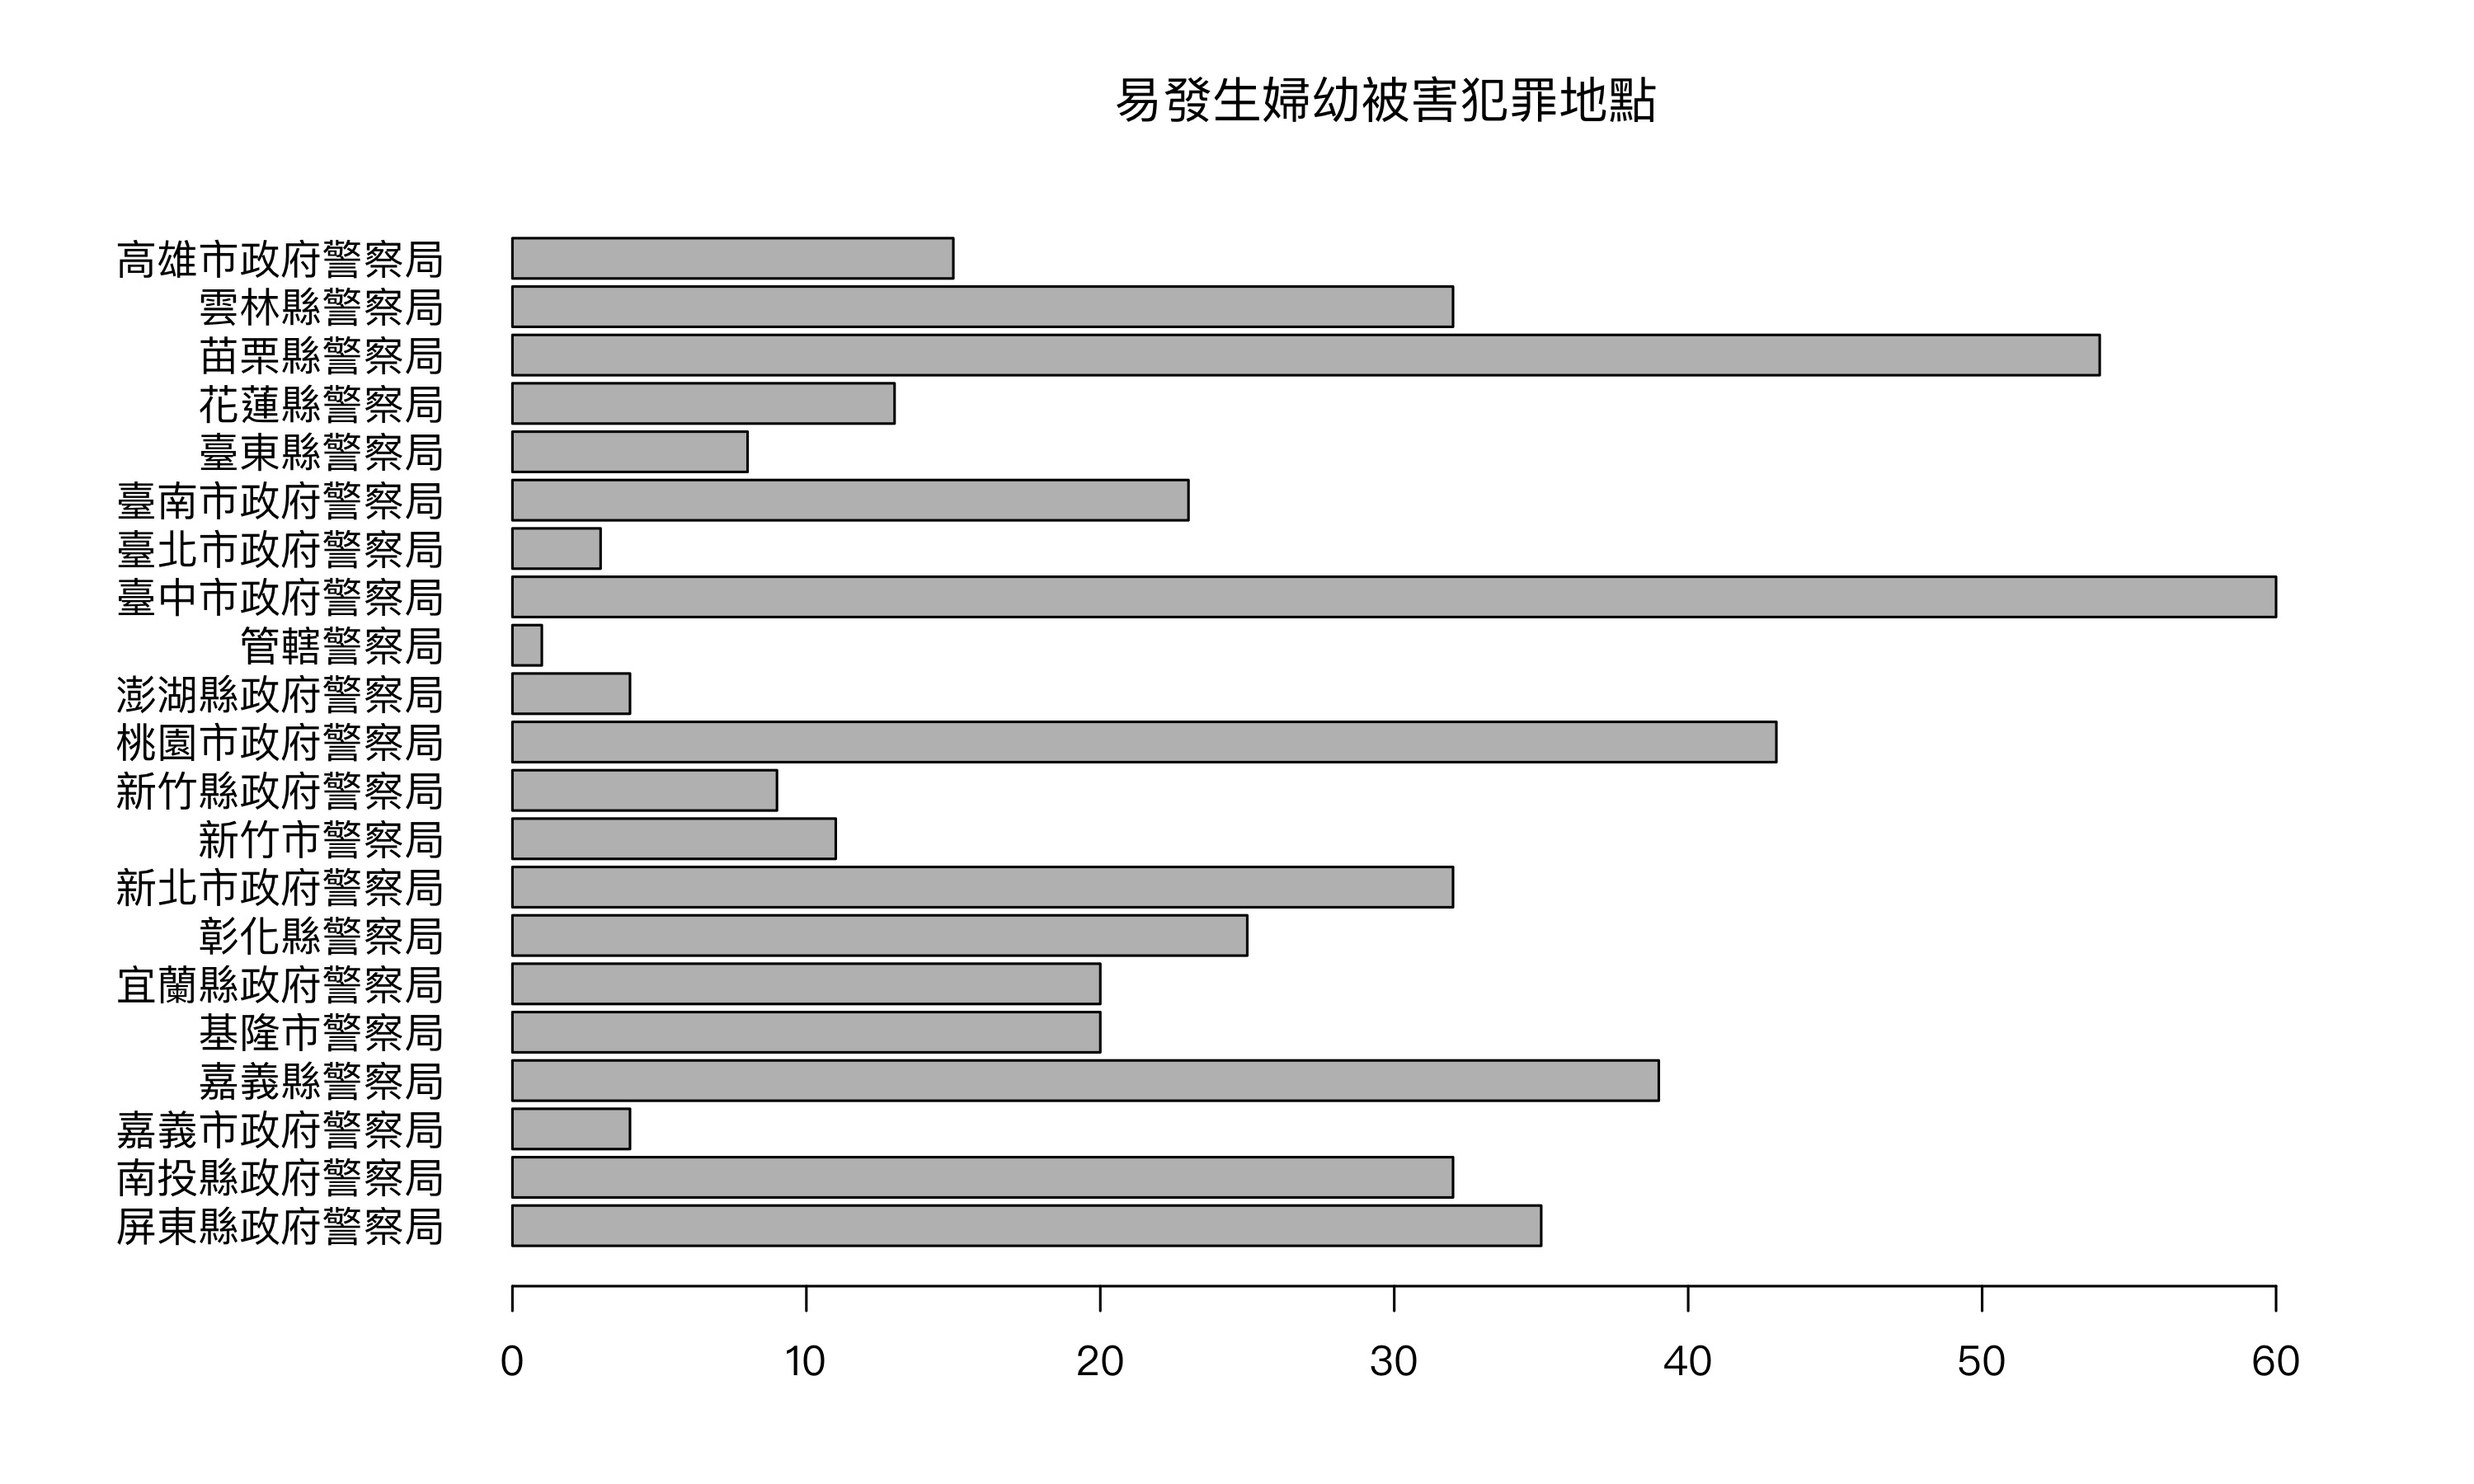
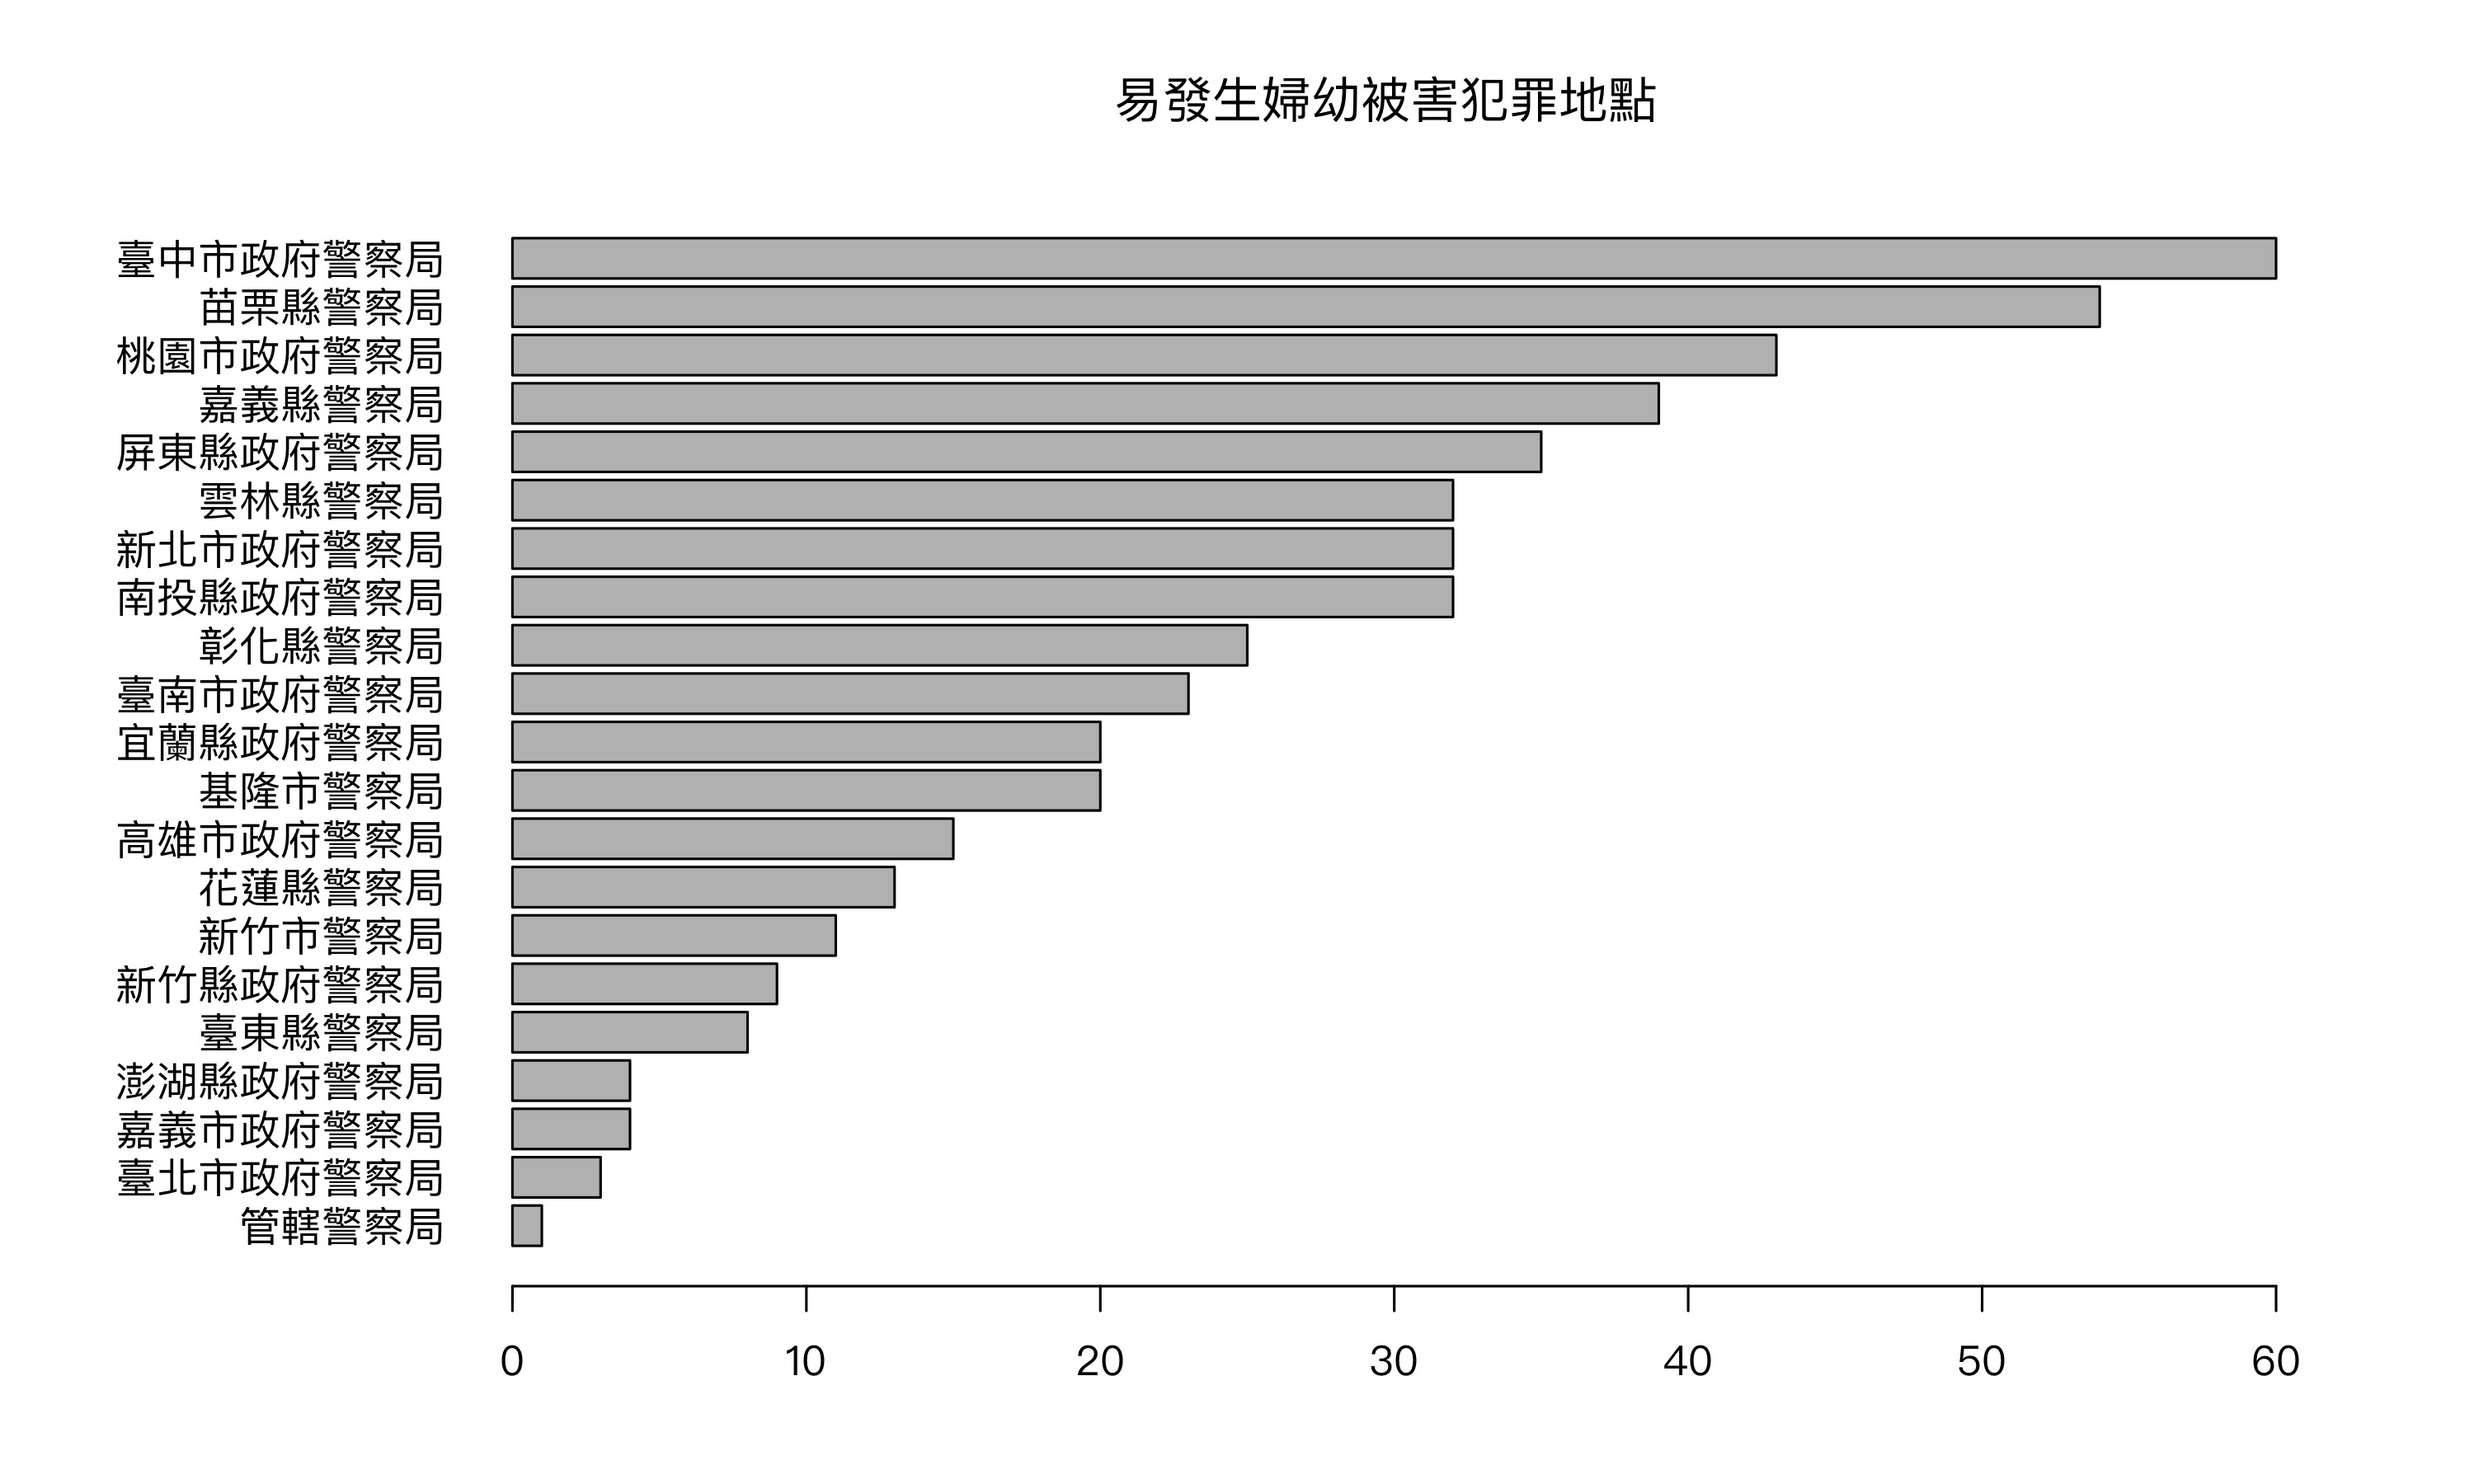
sort bars

diff --git a/README.md b/README.md
@@ -1,6 +1,6 @@
 # crime-location
 
-A simple R example code demostrating data analysing on ```http://data.gov.tw/``` data.
+A simple R example code demostrating data analysing on [DATA.GOV.TW](http://data.gov.tw/) data.
 
 ## Run
 
